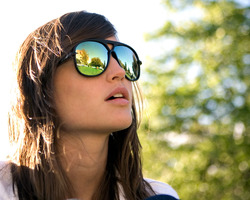
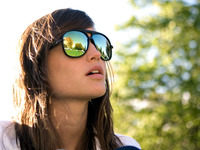
Fix listing size

diff --git a/app/assets/stylesheets/posts.css.scss b/app/assets/stylesheets/posts.css.scss
@@ -134,7 +134,9 @@
 .author, .author a:hover, .author a {
     color: #98b709;
     position: relative;
-    top: 5px;
+    display: block;
+    top: 0px;
+    right: 5px;
     font-family: 'Titillium Web', sans-serif;
     font-weight: 400;
 }
@@ -142,7 +144,7 @@
 .folder {
   margin-top: -8px;
   margin-bottom: -4px;
-  height: 50px;
+  height: 70px;
 }
 
 .reduced-margin-bottom {
@@ -162,10 +164,14 @@
 }
 
 .brief-desc {
-  height: 100px;
+  height: 110px;
 }
 
 .brief-desc-text, .brief-desc-text a:hover, .brief-desc-text a {
   color: rgb(51, 51, 51);
   text-decoration: none;
+}
+
+.media-body {
+  height: 100px;
 }

diff --git a/app/models/post.rb b/app/models/post.rb
@@ -6,7 +6,7 @@ class Post < ActiveRecord::Base
 
   acts_as_taggable
 
-	has_attached_file :image, :styles => { :big => '600', :medium => "250x200#", :thumb => "100x100#" }
+	has_attached_file :image, :styles => { :big => '600', :medium => "200x150#", :thumb => "100x100#" }
 
 	before_destroy :ensure_not_referenced_by_any_bet
   validates :user_id, presence: true
